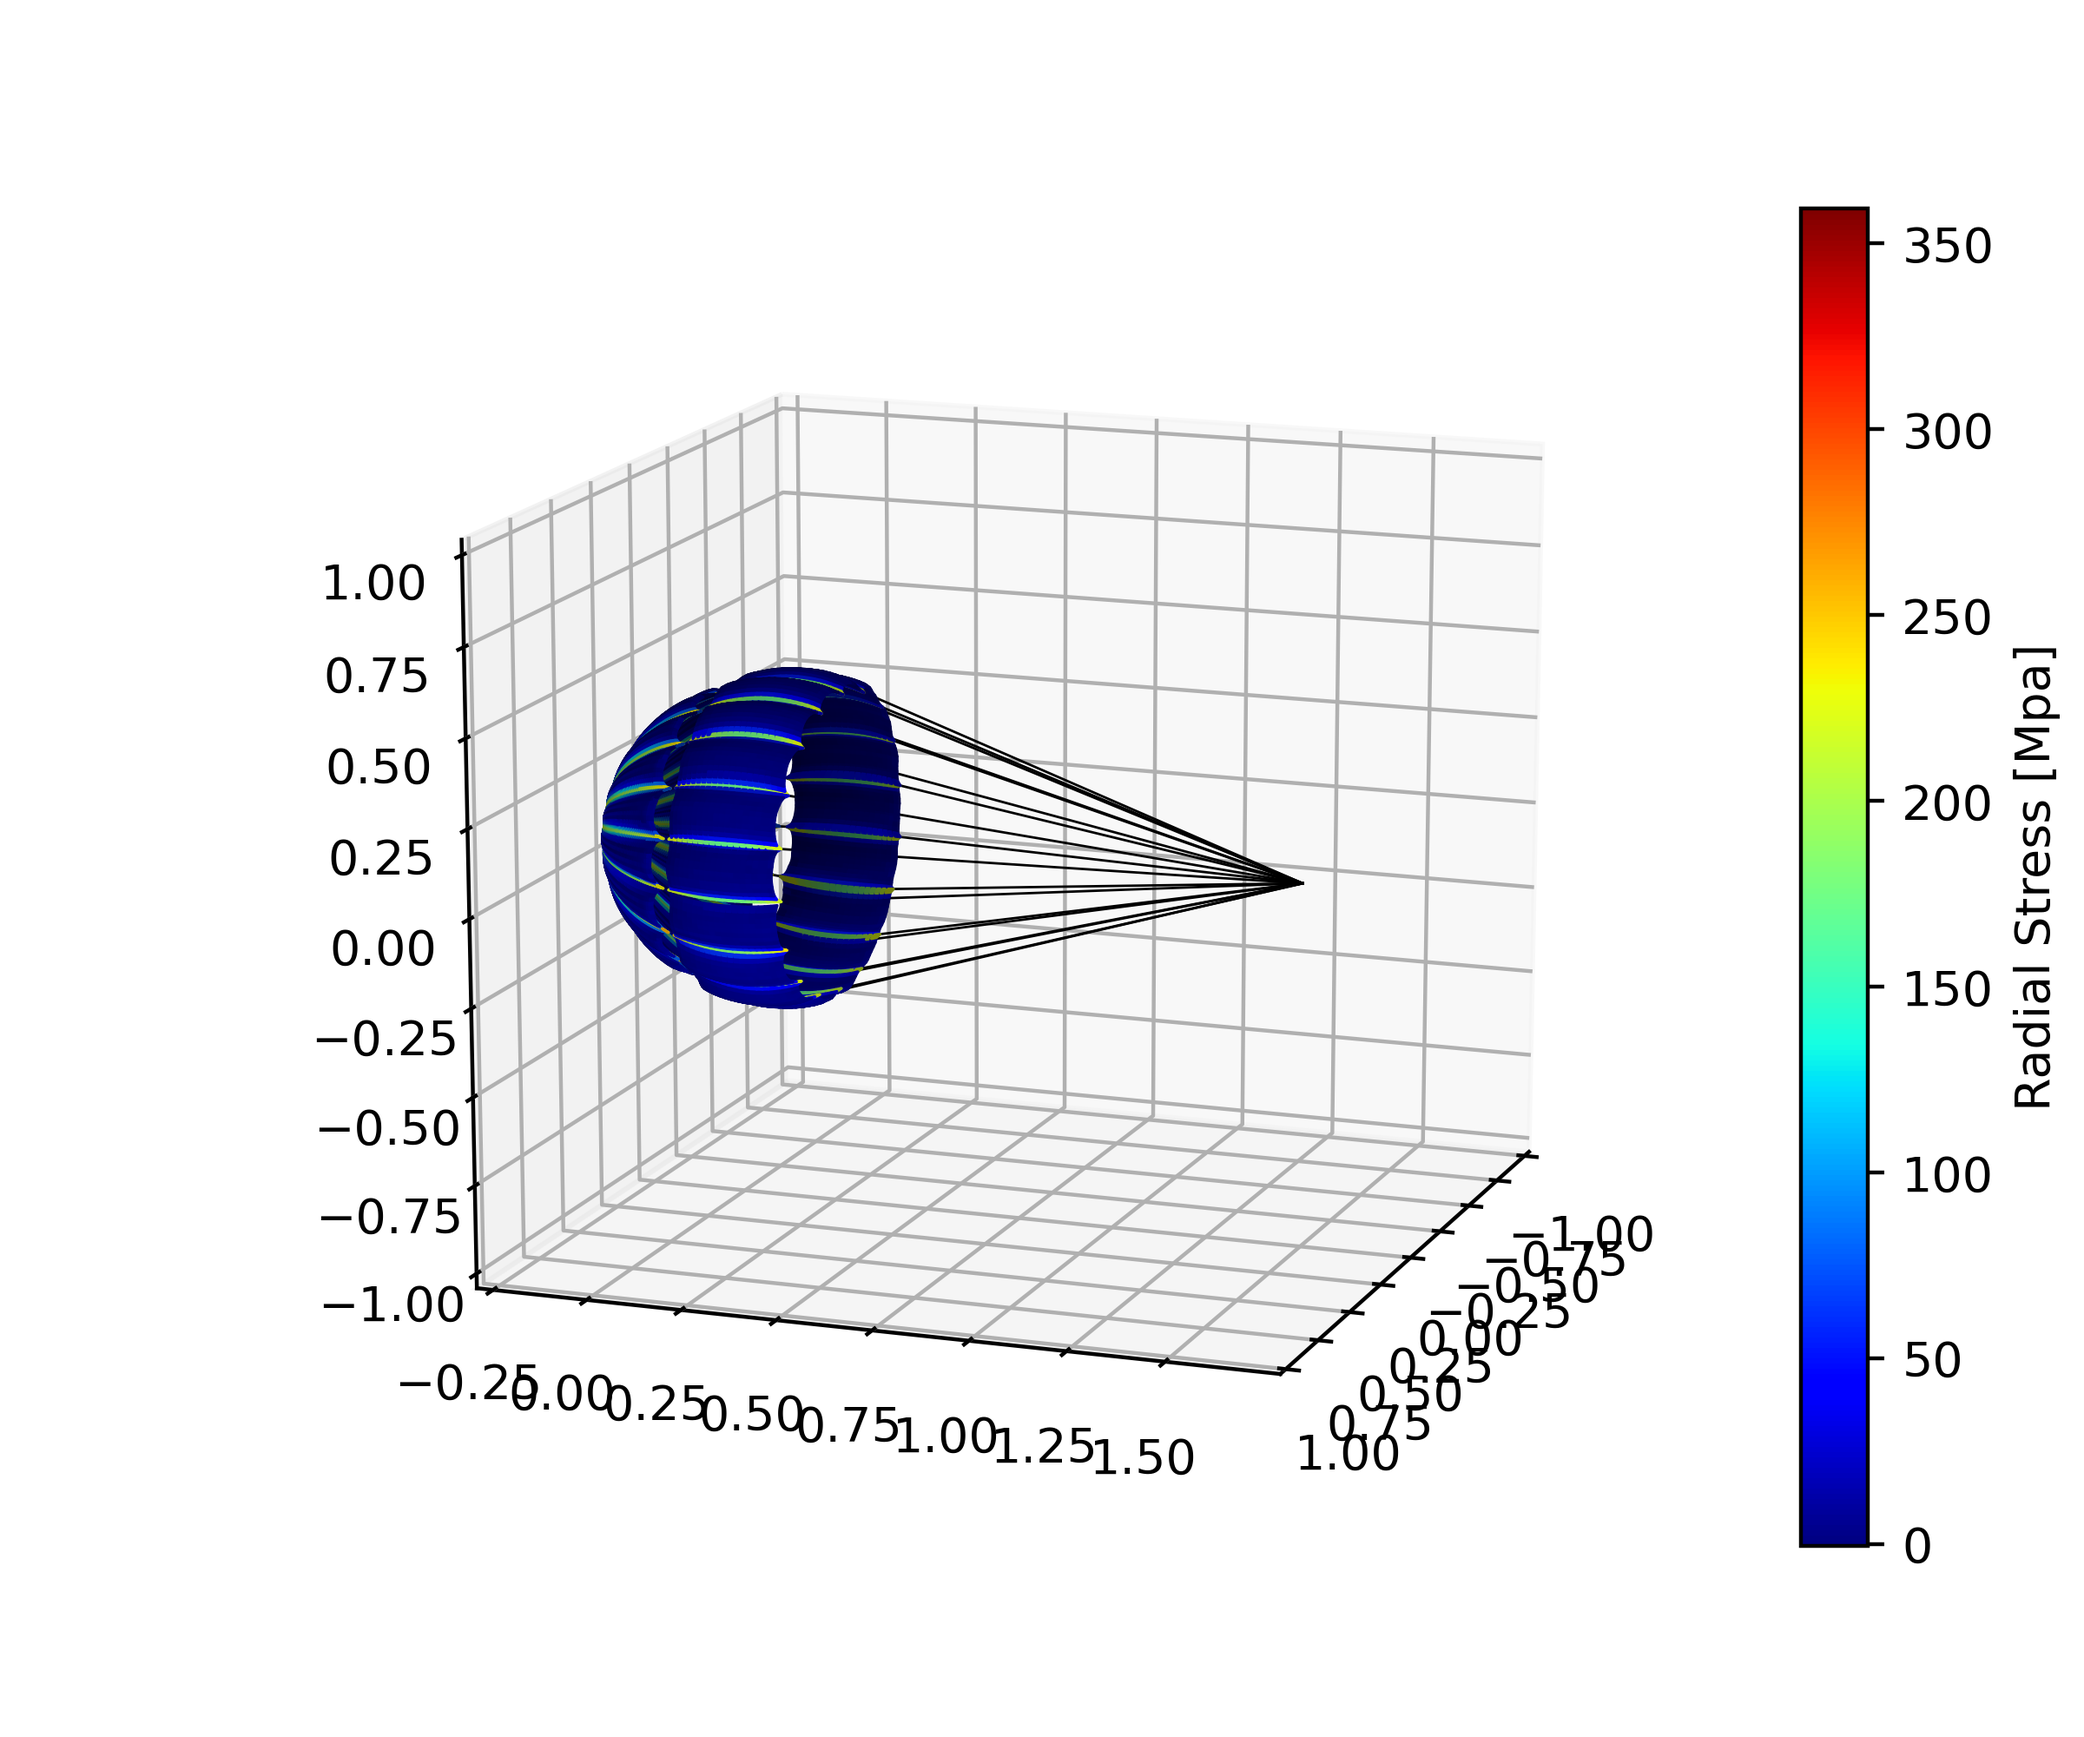
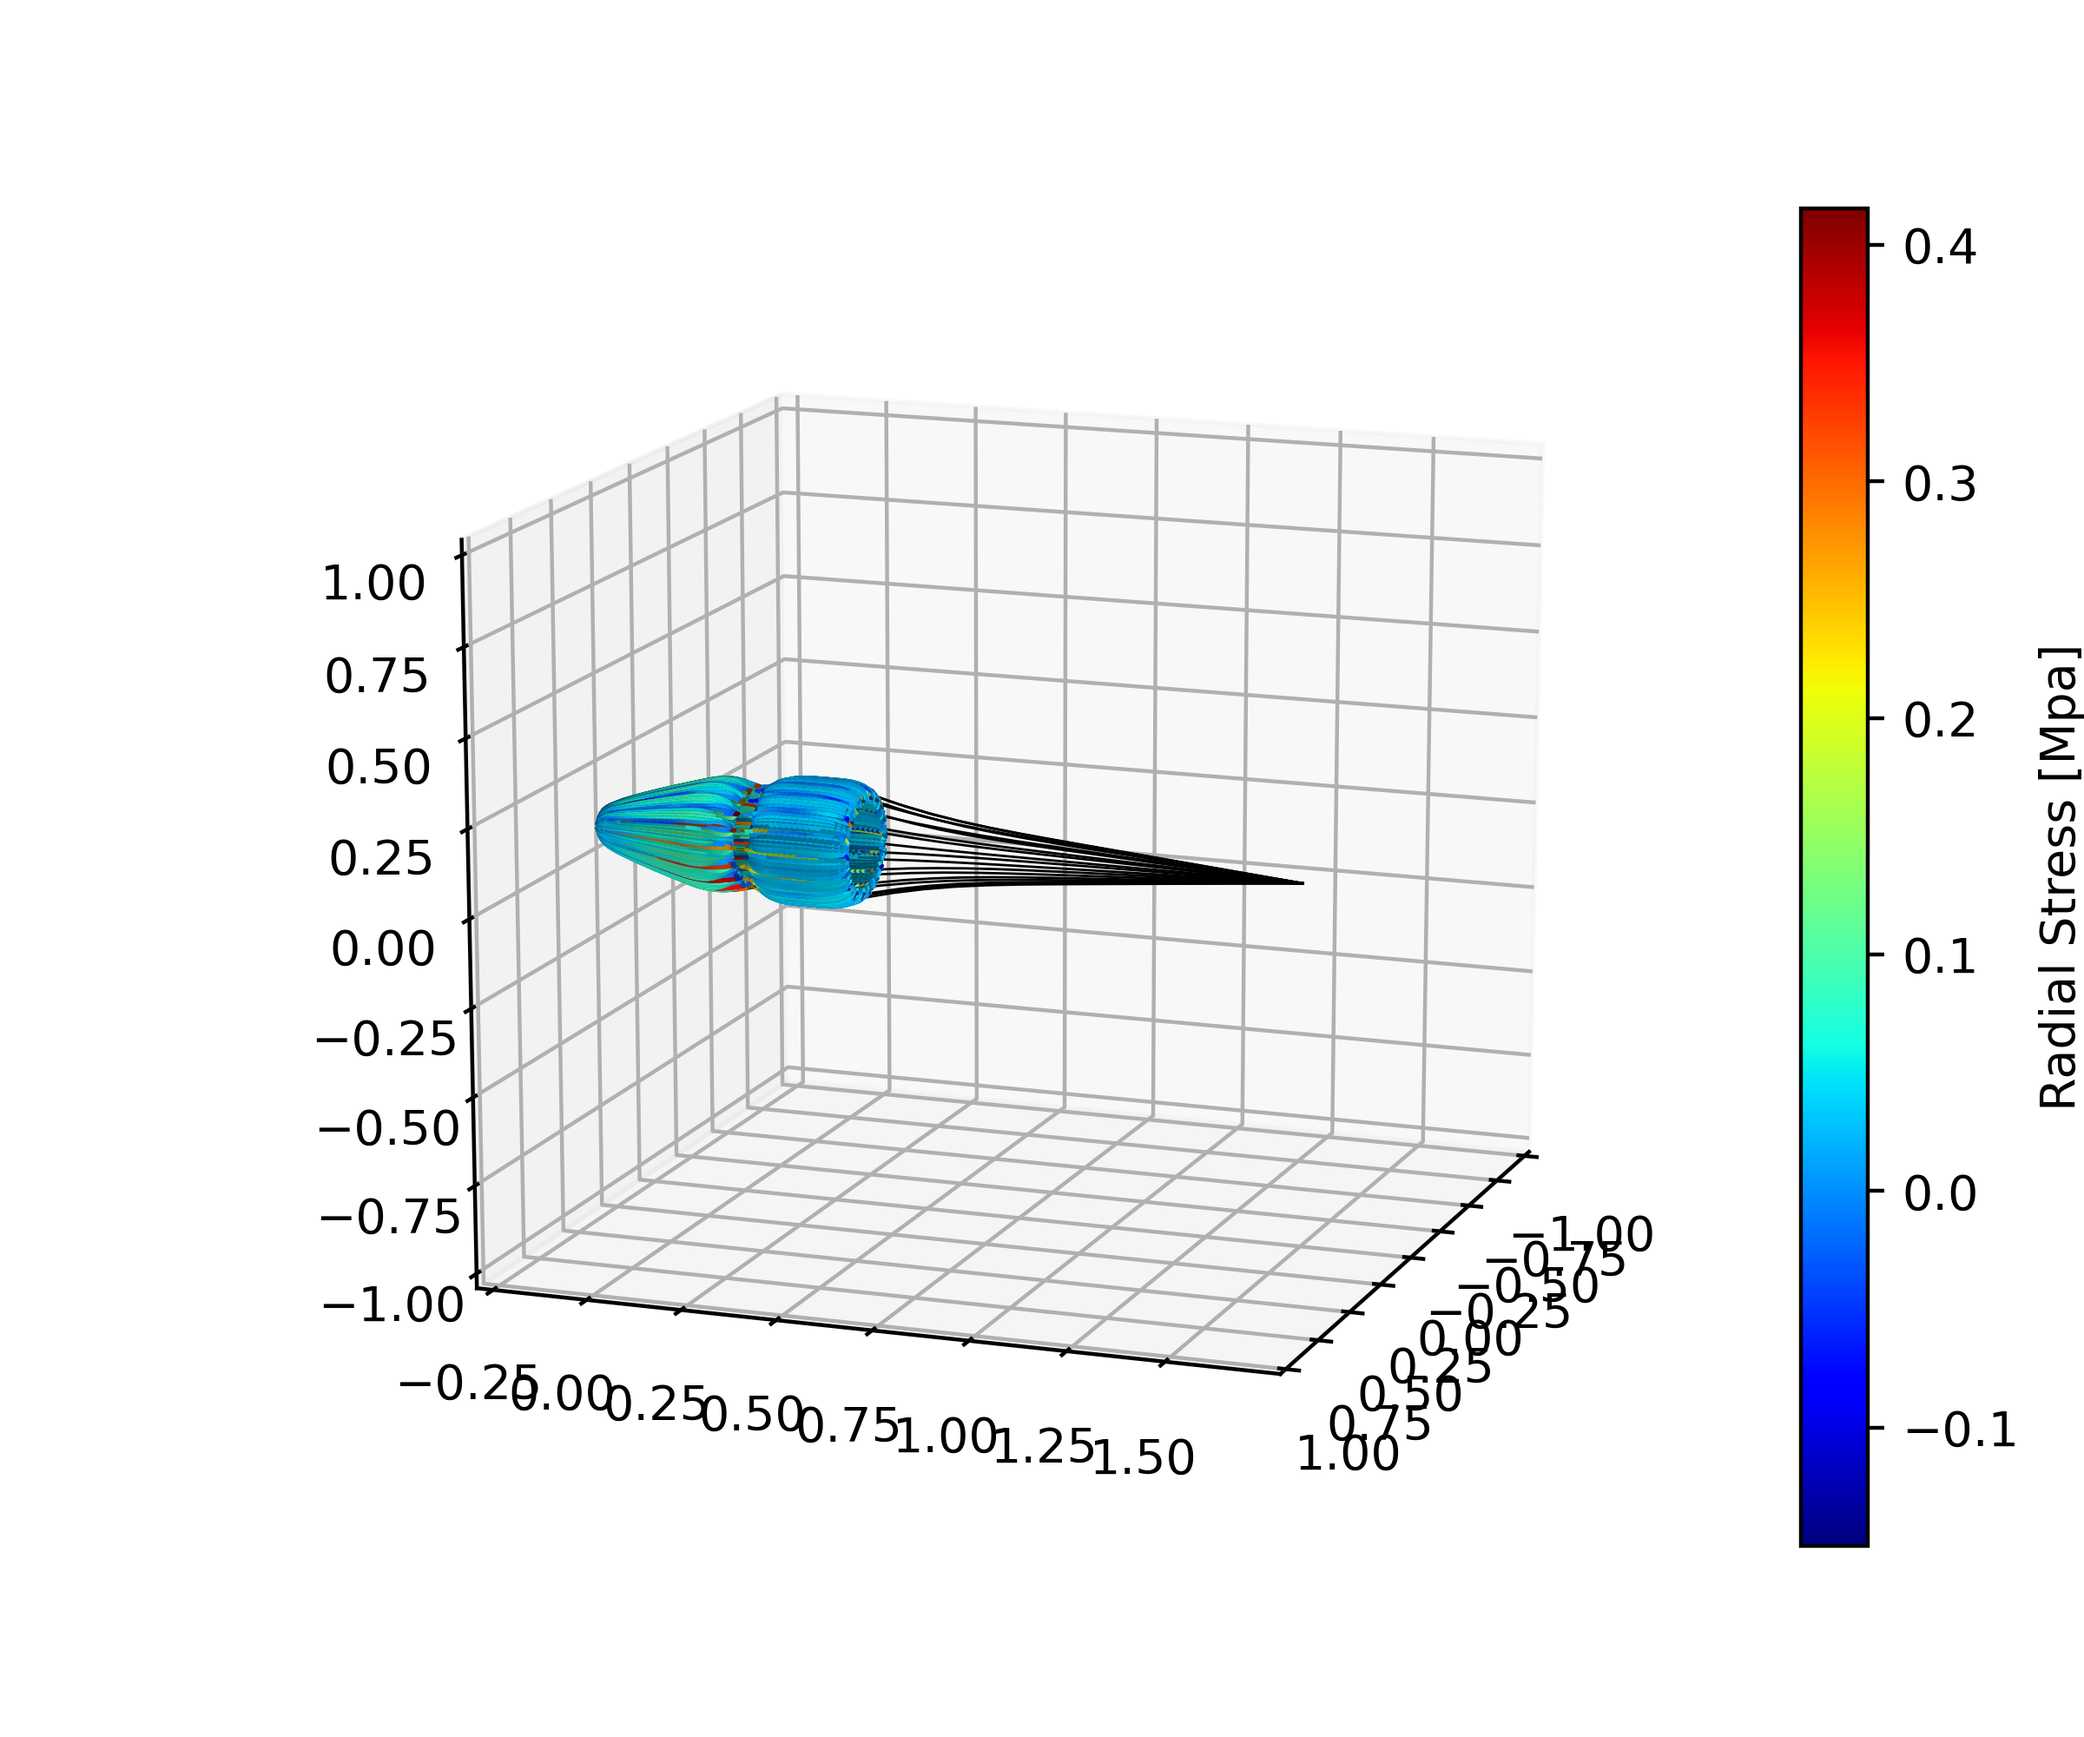
Added Number of Gores functionality. Fixed stress and strain computations.

diff --git a/Parachute3D.py b/Parachute3D.py
@@ -64,7 +64,7 @@ class Canopy:
     using the Euler time integration method
     """
 
-    def __init__(self, X, Y, Z, canopy_material, reinforcement_material, suspension_material, reinforcement_width, num_sus, dp):
+    def __init__(self, X, Y, Z, canopy_material, reinforcement_material, suspension_material, reinforcement_width, num_sus, num_gores, dp):
 
         """
         This constructor initializes the spring constants of the mass-spring system based on the E-modulus and geometry of the fishing net.
@@ -94,6 +94,7 @@ class Canopy:
         self.Vz = np.zeros(X.shape)
         self.porosity = canopy_material.porosity
         self.NumSus = num_sus
+        self.NumGores = num_gores
         self.Color = np.zeros(self.X.shape)
         self.Nx, self.Ny = X.shape
         self.RWidth = reinforcement_width
@@ -311,7 +312,7 @@ class Canopy:
         Vz = self.Vz
         g0 = 0
         gz = np.ones(self.M.shape) * g0
-        C = 3 / X.shape[0] / X.shape[1]
+        C = 1.5 / X.shape[0] / X.shape[1]
 
         XN, XS, XE, XW, XNE, XNW, XSE, XSW, XNN, XSS, XEE, XWW = createNeighbours(X)
         YN, YS, YE, YW, YNE, YNW, YSE, YSW, YNN, YSS, YEE, YWW = createNeighbours(Y)
@@ -366,7 +367,7 @@ class Canopy:
         self.Color[-RNumWidthNS:, :] = 1
         self.Color[0:RNumWidthNS, :] = 1
 
-        Sus_Index = np.linspace(0, len(X[0]), self.NumSus + 1)
+        Sus_Index = np.linspace(0, len(X[0]), self.NumGores + 1)
         Sus_Index = np.array(Sus_Index[:-1], int)
 
         for i in Sus_Index[:-1]:
@@ -445,10 +446,10 @@ class Canopy:
         FeNS = Fe(StrainNS, self.ECoeffAx) / 0.5 / (self.LN0 + self.LS0)
         FeEW = Fe(StrainEW, self.ECoeffAx) / 0.5 / (self.LE0 + self.LW0)
         FeTot = Fe(Strain, self.ECoeffAx)
-        StressNS = FeNS / (0.5*(self.LE0 + self.LW0)) / self.DFiber
+        StressNS = FeNS / self.DFiber
         StressNS[0, :] = StressNS[1, :].copy()
         StressNS[-1, :] = StressNS[-2, :].copy()
-        StressEW = FeEW / (0.5*(self.LN0 + self.LS0)) / self.DFiber
+        StressEW = FeEW / self.DFiber
         StressEW[0, :] = StressEW[1, :].copy()
         StressEW[-1, :] = StressEW[-2, :].copy()
 
@@ -919,11 +920,12 @@ class Rope:
 
 class Parachute:
 
-    def __init__(self, disks, bands, num_suspension, suspension_length, reinforcement, disk_res, band_res, sus_res, ang_res, canopy_material, sus_line_material, reinforcement_material, dp_initial, closed_radius):
+    def __init__(self, disks, bands, num_suspension, num_gores, suspension_length, reinforcement, disk_res, band_res, sus_res, ang_res, canopy_material, sus_line_material, reinforcement_material, dp_initial, closed_radius):
         self.Disks = []
         self.Bands = []
         self.SuspensionLines = []
         self.NumSus = num_suspension
+        self.NumGores = num_gores
         self.CanopyMat = canopy_material
         self.SusMat = sus_line_material
         self.BandMat = canopy_material
@@ -951,7 +953,7 @@ class Parachute:
             X = (R_folded * np.cos(Theta)).T
             Z = (R_folded * np.sin(Theta)).T
             Y = (-(R_d - R_v - R) * (1 - (r_d / R_d)**2)**0.5).T
-            Disk = Canopy(X, Y, Z, canopy_material, reinforcement_material, sus_line_material, reinforcement, num_suspension, dp_initial)
+            Disk = Canopy(X, Y, Z, canopy_material, reinforcement_material, sus_line_material, reinforcement, num_suspension, num_gores, dp_initial)
             self.Disks.append(Disk)
         for i in range(len(bands)):
             Nang = ang_res
@@ -969,7 +971,7 @@ class Parachute:
             y = np.linspace(bands[i][0], bands[i][1], band_res[i])
             X, Y = np.meshgrid(x, y)
             Z, Y = np.meshgrid(z, y)
-            Band = Canopy(X, Y, Z, canopy_material, reinforcement_material, sus_line_material, reinforcement, num_suspension, dp_initial * ratio)
+            Band = Canopy(X, Y, Z, canopy_material, reinforcement_material, sus_line_material, reinforcement, num_suspension, num_gores, dp_initial * ratio)
             self.Bands.append(Band)
         Sus_Index = np.linspace(0, ang_res, Num_Suspension + 1)
         self.Sus_Index = np.array(Sus_Index, int)[:-1]
@@ -1025,7 +1027,7 @@ class Parachute:
 
         plt.colorbar(scamap, orientation='vertical', label='Radial Stress [Mpa]', fraction=0.046, pad=0.04)
         plt.savefig('frames/' + str(frame) + '.png', dpi=400)
-        plt.show()
+        # plt.show()
         plt.close()
 
     def plotDrag(self, frame, time, Drag):
@@ -1688,14 +1690,14 @@ class Parachute:
             X = np.zeros((4, 4))
             Y = np.zeros((4, 4))
             Z = np.zeros((4, 4))
-            disk = Canopy(X, Y, Z, self.CanopyMat, self.ReinfMat, self.SusMat, self.ReinfWidth, self.NumSus, self.dp)
+            disk = Canopy(X, Y, Z, self.CanopyMat, self.ReinfMat, self.SusMat, self.ReinfWidth, self.NumSus, self.NumGores, self.dp)
             disk.open(name + '/' + diskName)
             self.Disks.append(disk)
         for bandName in bandNames:
             X = np.zeros((4, 4))
             Y = np.zeros((4, 4))
             Z = np.zeros((4, 4))
-            band = Canopy(X, Y, Z, self.CanopyMat, self.ReinfMat, self.SusMat, self.ReinfWidth, self.NumSus, self.dp)
+            band = Canopy(X, Y, Z, self.CanopyMat, self.ReinfMat, self.SusMat, self.ReinfWidth, self.NumSus, self.NumGores, self.dp)
             band.open(name + '/' + bandName)
             self.Bands.append(band)
         for i in range(len(lineNames)):
@@ -1771,7 +1773,7 @@ class Parachute:
             band.dP = -dP
 
 
-RipNylon = Canopy_Material(2.7e6, 0.048, [15781, 506452], [0], 0.5e-3, 0.8)
+RipNylon = Canopy_Material(2.7e6, 0.048, [15781, 506452], [0], 0.5e-3, 0.95)
 Aramid = Suspension_Material(3.4e6, 0.05, [6249.42, -1184.1, 179.7], 0.5e-3)
 Spectra = Suspension_Material(1.1e7, 0.0027, [5380.3, -967333.5, 167075000], 4e-3)
 
@@ -1781,6 +1783,7 @@ Bands = [[0.062, 0.062 + 0.293]]
 #Bands = []
 Suspension_Length = 1.5
 Num_Suspension = 18
+Num_Gores = 6
 Reinforcement_Width = 15e-3
 #Disk_Resolution = [120]
 Disk_Resolution = [70]
@@ -1790,19 +1793,13 @@ Sus_Resolution = [3, 15]
 
 initial_pressure = 570
 
-T = 0.008
-Nt = 6000
-frames = 20
+T = 0.08
+Nt = 60000
+frames = 200
 
-parachute = Parachute(Disks, Bands, Num_Suspension, Suspension_Length, Reinforcement_Width, Disk_Resolution, Band_Resolution, Sus_Resolution, Angular_Resolution, RipNylon,
+parachute = Parachute(Disks, Bands, Num_Suspension, Num_Gores, Suspension_Length, Reinforcement_Width, Disk_Resolution, Band_Resolution, Sus_Resolution, Angular_Resolution, RipNylon,
                       Spectra, Aramid, initial_pressure, 0.1)
-parachute.importParachute('SPEARIIChuteScaled_Closed')
-parachute.importP('p', [100, 200, 100], [[-1.5, 1.5], [-3, 3], [-1.5, 1.5]])
+#parachute.importParachute('SPEARIIChuteScaled_Closed')
+# parachute.importP('p', [100, 200, 100], [[-1.5, 1.5], [-3, 3], [-1.5, 1.5]])
 parachute.solver(T, Nt, frames)
 parachute.saveParachute('SPEARIIChuteScaled_Closed')
-norm = parachute.computeNormals()
-OpenFOAM.createPorosityProperties(norm, [0, 0, 0], [150, 10000, 150])
-OpenFOAM.createFvOptions(len(norm[0]))
-OpenFOAM.createTopoSet(len(norm[0]))
-
-parachute.saveSTLs('SPEARIIChuteScaled_Closed_STL')
